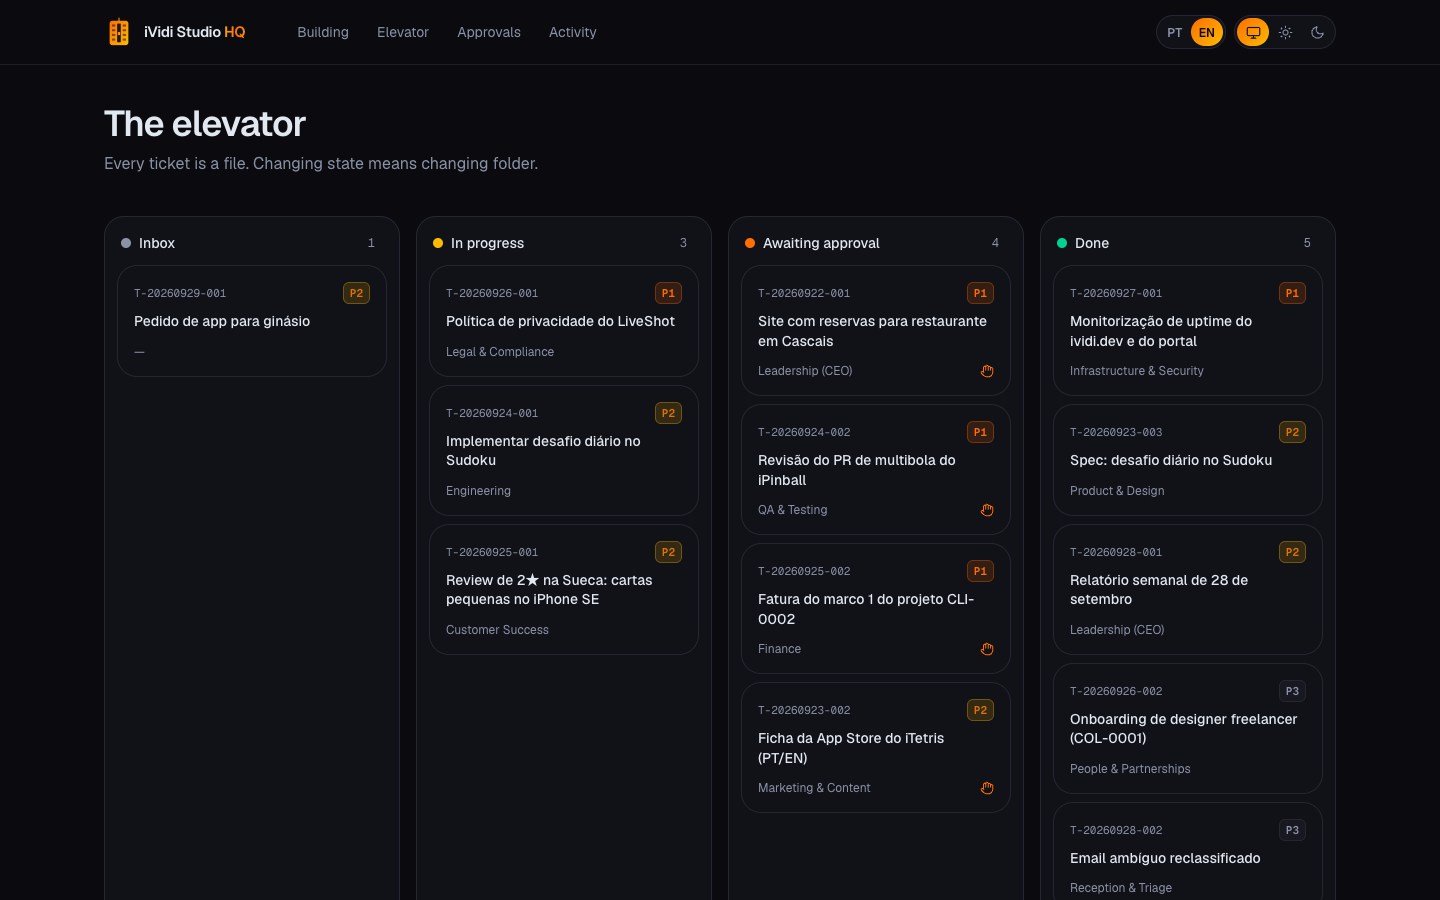
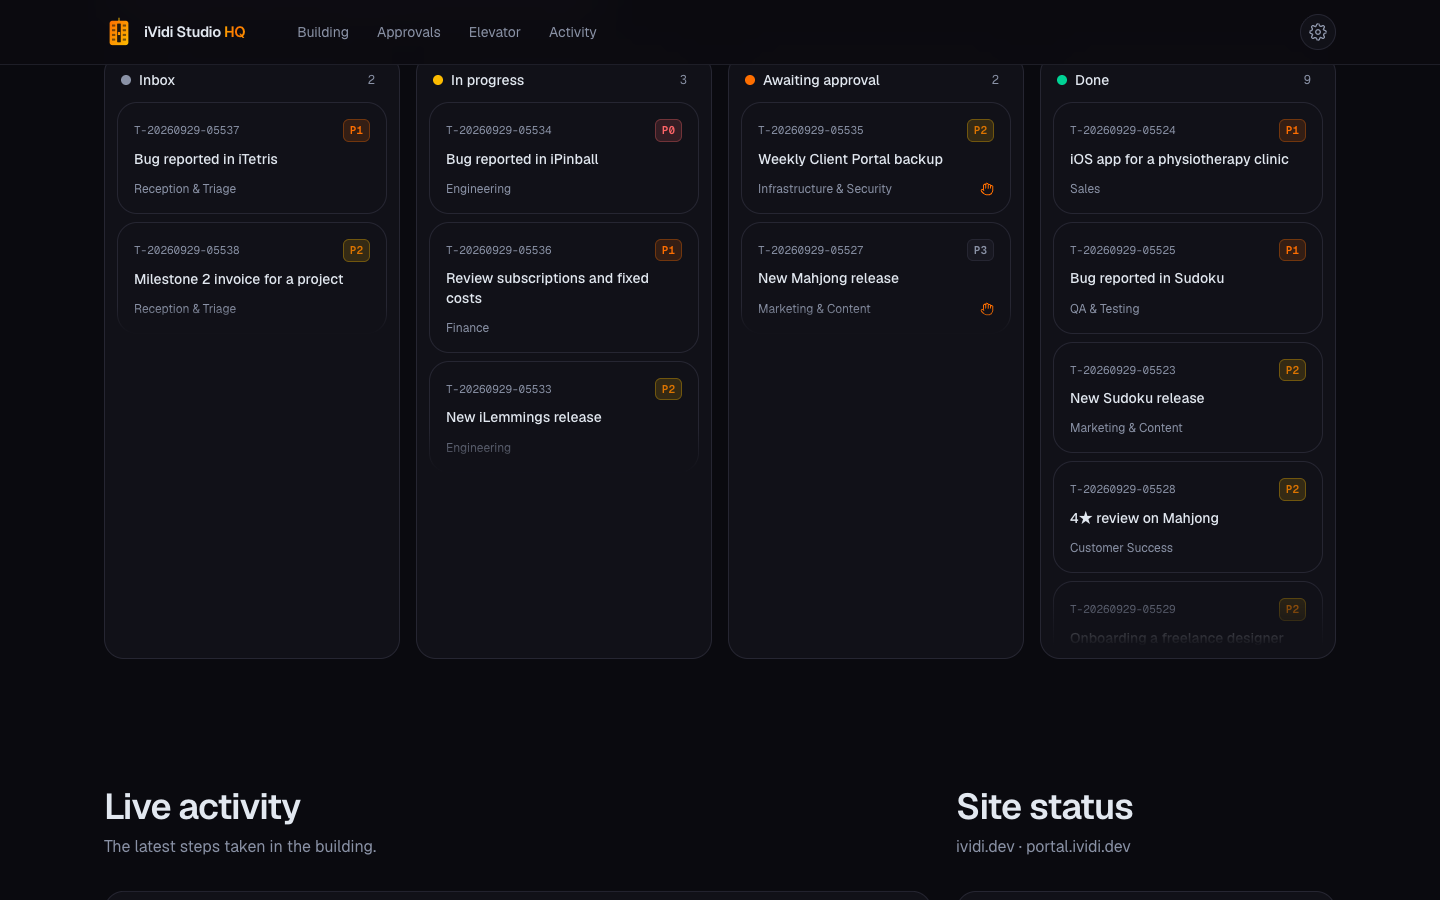
docs: README, planta e capturas da montra ao vivo

diff --git a/README.md b/README.md
@@ -1,30 +1,28 @@
 # iVidi Studio HQ 🏢
 
-> The whole iVidi Studio company run as a twelve-floor building: every floor a department with its own team of agents, every request a ticket riding the elevator, and a penthouse dashboard where only the decisions with real impact wait for a human.
+> A live showcase of iVidi Studio running as a twelve-floor building: every floor a department, every request a ticket riding the elevator, and every decision with real impact waiting for a human.
 
+[![Live demo](https://img.shields.io/badge/Live-demo-orange)](https://ividistudio.vercel.app)
 [![Report Bug](https://img.shields.io/badge/Report-Bug-red)](https://github.com/VidiPT89/iVidiStudio/issues)
 [![Request Feature](https://img.shields.io/badge/Request-Feature-blue)](https://github.com/VidiPT89/iVidiStudio/issues)
 
 <picture>
   <source media="(prefers-color-scheme: light)" srcset="docs/screenshots/hero-light.png">
-  <img alt="iVidi Studio HQ dashboard" src="docs/screenshots/hero-dark.png">
+  <img alt="iVidi Studio HQ live demo" src="docs/screenshots/hero-dark.png">
 </picture>
 
 ## ✨ Features
 
-- ✅ Twelve floors, from the Basement (Infrastructure & Security) to the Penthouse (Leadership), each with its mission, KPIs, step-by-step processes, templates and a decision log
-- ✅ The elevator: a ticket system made of plain Markdown files — changing state means moving the file between `entrada/`, `em-curso/`, `aguarda-aprovacao/` and `concluido/`, so every step is versioned in git
-- ✅ Twenty Claude Code agents — a floor manager for every floor, specialists for web, iOS, Android, proposals, store listings and UX, and a doorman who triages every new request
-- ✅ Eight slash commands as the elevator buttons: `/novo-pedido`, `/triagem`, `/piso`, `/ronda`, `/aprovacoes`, `/relatorio-semanal`, `/lancar-app` and `/novo-cliente`
-- ✅ Human gate: emails to clients, publishing, merging to `main`, production deploys, invoices, contracts, spending and deleting data never happen automatically
-- ✅ Floor boundaries enforced by a hook — an agent can only write to its own floor and to the elevator, and nobody reads `.env` files
-- ✅ Scheduled automation on GitHub Actions: hourly triage, a daily round at 08:00 Lisbon time, a Monday weekly report and a daily uptime check, all behind a single on/off switch
-- ✅ Client Portal webhook that turns a signed request into a ticket, validating the payload and stripping emails, phone numbers and tax IDs (GDPR)
-- ✅ Penthouse dashboard behind a login, with an interactive building whose elevator car rides to the selected floor, a live board of every ticket, the approval queue, recent activity and site status
-- ✅ Animated splash screen with developer credits once per browser session, then straight into the dashboard
-- ✅ Settings panel with a bilingual PT-PT / English switch, independent of your browser language
-- ✅ Dark, Light and System appearance, with the iVidi.dev orange, burnt yellow and black
-- ✅ Worked examples on every floor in `docs/exemplos/`, including a guided tour: a Cascais restaurant's request travelling from Reception to the Penthouse
+- ✅ Live simulation of the whole studio: new requests arrive every few seconds, get triaged at Reception, ride the elevator and pass through the right teams
+- ✅ Built from iVidi Studio's real products and services — iTetris, iPinball, iLemmings, Sudoku, Sueca, LiveShot, PhotographersPocketKnife, Next.js sites, Salesforce work — with fictional requests and clients, so no private details are ever shown
+- ✅ Deterministic by the clock: every visitor sees the same building at the same moment, with no server, no database and no personal data
+- ✅ Interactive building whose elevator car follows the work, lit windows for busy floors, and a panel with each floor's mission, team and KPIs
+- ✅ Human gate: proposals, store releases, deploys, invoices and contracts always stop and wait for approval
+- ✅ Live ticket board where cards glide between Inbox, In progress, Awaiting approval and Done, plus a live activity feed
+- ✅ Real uptime of ividi.dev and the Client Portal
+- ✅ The operating model behind it: twelve floors with processes and templates, twenty Claude Code agents, eight slash commands and a hook that keeps each agent on its own floor
+- ✅ Animated splash screen with developer credits once per browser session, then straight into the building
+- ✅ Settings panel with a bilingual PT-PT / English switch and Dark, Light and System appearance, in the iVidi.dev orange, burnt yellow and black
 
 <p align="center">
   <img alt="Splash screen" src="docs/screenshots/splash.png" width="49%">
@@ -35,12 +33,11 @@
 
 | Category | Technology |
 |----------|------------|
-| Dashboard | Next.js 16 (App Router), React 19, TypeScript |
+| Web | Next.js 16 (App Router), React 19, TypeScript |
 | Styling | Tailwind CSS 4 |
 | Animation | Motion |
-| Agents | Claude Code subagents, slash commands and hooks |
-| Automation | GitHub Actions |
-| Tickets & records | Markdown with YAML front matter |
+| Operating model | Claude Code subagents, slash commands and hooks |
+| Automation | GitHub Actions (uptime, CI) |
 | Testing | Vitest |
 | Hosting | Vercel |
 
@@ -48,15 +45,16 @@
 
 ```
 iVidiStudio/
+├── dashboard/           the live showcase (Next.js)
+│   └── src/lib/simulation.ts   the studio, generated from the clock
 ├── CLAUDE.md            building rules (PT-PT) every agent follows
 ├── docs/planta.md       floor plan with Mermaid diagrams (PT-PT)
 ├── docs/exemplos/       worked examples: one ticket per floor and their records
-├── elevador/            tickets: entrada/ · em-curso/ · aguarda-aprovacao/ · concluido/
+├── elevador/            ticket states: entrada/ · em-curso/ · aguarda-aprovacao/ · concluido/
 ├── pisos/               the 12 floors: README · processos/ · templates/ · registos/
 ├── empresa/             mission, brand, pricing and product catalogue
 ├── .claude/             agents/ · commands/ · hooks/ · settings.json
-├── .github/             scheduled workflows and the shared "run a floor" action
-└── dashboard/           the penthouse dashboard (Next.js)
+└── .github/             uptime check and CI
 ```
 
 ## 🚀 Quick Start
@@ -64,7 +62,6 @@ iVidiStudio/
 ### Prerequisites
 
 - Node.js 20+
-- [Claude Code](https://claude.com/claude-code) to run the agents and commands
 
 ### Installation
 
@@ -75,46 +72,21 @@ npm install
 npm run dev
 ```
 
-Open [http://localhost:3000](http://localhost:3000). The dashboard reads the building (`elevador/` and `pisos/`) when it starts and at every build. In development it is open; in production it asks for `DASHBOARD_USER` / `DASHBOARD_PASSWORD` (see [`dashboard/.env.example`](dashboard/.env.example)).
+Open [http://localhost:3000](http://localhost:3000). No environment variables are needed.
 
 ## 📖 Usage
 
-1. Open Claude Code at the repository root and drop a request in: `/novo-pedido A restaurant in Cascais wants a website with bookings`
-2. Run `/triagem` — the doorman classifies it and sends it to the right floor
-3. Run `/piso 1` (or `/ronda` for every floor) to let the floor managers do the work
-4. Check `/aprovacoes` every day: approve with `/aprovacoes aprovar <id>` or send it back with `/aprovacoes rejeitar <id> "comment"`
-5. Follow everything on the dashboard — pick a floor to see its team, KPIs and work, open any ticket to read its history
-6. Open **Settings** (the gear in the header) to switch language (PT / EN) and appearance (System / Light / Dark)
-
-### Turning on the automation
-
-The workflows stay off until you switch them on, and they run on your Claude subscription, with no paid API key:
-
-1. Run `claude setup-token` and add the token as the repository secret `CLAUDE_CODE_OAUTH_TOKEN`
-2. Add the repository variable `IVIDI_AUTOMACAO` with the value `ligada`
-
-The daily uptime check and CI need neither. As a private repository the Actions budget is 2,000 free minutes a month, so triage runs four times a day plus right after every new portal request.
+1. Watch the splash screen, then the building starts working on its own
+2. Follow the elevator, or pick a floor to see its team, KPIs and what it has in hand — **Follow the elevator** takes you back to live
+3. Open any ticket to watch its journey through the building update live
+4. Keep an eye on **Human gate**: nothing with real impact happens until it has been approved
+5. Open **Settings** (the gear in the header) to switch language (PT / EN) and appearance (System / Light / Dark)
 
 ## 🔌 API Endpoints
 
 | Method | Endpoint | Description |
 |--------|----------|-------------|
-| `GET` | `/api/status` | Uptime and response time of ividi.dev and portal.ividi.dev (cached for 5 minutes, behind the dashboard login) |
-| `POST` | `/api/portal` | Client Portal webhook — creates a ticket in `elevador/entrada/`. Body signed with HMAC-SHA256 in `x-ividi-signature: sha256=<hex>`. The only route outside the login |
-
-`POST /api/portal` body:
-
-```json
-{
-  "clientRef": "CLI-0007",
-  "type": "pedido-cliente",
-  "title": "New website",
-  "summary": "What the client asked for",
-  "priority": "P2"
-}
-```
-
-Configure `PORTAL_WEBHOOK_SECRET`, `GITHUB_TOKEN` (fine-grained, contents: write on this repository) and `GITHUB_REPO` — see [`dashboard/.env.example`](dashboard/.env.example).
+| `GET` | `/api/status` | Uptime and response time of ividi.dev and portal.ividi.dev (cached for 5 minutes) |
 
 ## 🧪 Testing
 
@@ -126,7 +98,7 @@ npm test
 npm run build
 ```
 
-The tests cover the ticket and record parser, the webhook validation and GDPR redaction, ticket numbering, the hook that keeps every agent on its own floor and away from secrets, and that both languages define and use the same strings for every floor.
+The tests cover the simulation (same building for every visitor, consistent counters, tickets walking the floors in order, the human gate, both languages and Portuguese grammar), the hook that keeps every agent on its own floor and away from secrets, and that both languages define and use the same strings for every floor.
 
 ## 📄 License
 

diff --git a/docs/planta.md b/docs/planta.md
@@ -75,8 +75,8 @@ ividi-hq/
   pisos/<piso>/        README.md · processos/ · templates/ · registos/
   empresa/             missão, visão, valores, marca, preços, catálogo
   .claude/             agents/ (20) · commands/ (8) · hooks/ · settings.json
-  .github/             workflows/ (triagem, ronda, relatório, uptime, CI) · actions/piso
-  dashboard/           Painel da Cobertura (Next.js)
+  .github/             workflows/ (uptime, CI)
+  dashboard/           montra ao vivo (Next.js)
 ```
 
 ## Estado da construção
@@ -84,19 +84,20 @@ ividi-hq/
 - [x] Fase 1 — Fundações
 - [x] Fase 2 — A equipa (20 agentes em `.claude/agents/`)
 - [x] Fase 3 — Comandos (8 botões do elevador em `.claude/commands/`)
-- [x] Fase 4 — Automação 24/7 (workflows, hooks, webhook do portal) — desligada até `IVIDI_AUTOMACAO=ligada`
-- [x] Fase 5 — Painel da Cobertura (`dashboard/`)
+- [x] Fase 4 — Hooks de fronteira entre pisos e monitorização de uptime
+- [x] Fase 5 — Painel da Cobertura como montra ao vivo (`dashboard/`)
 
-## Ligar as automações
+## A montra ao vivo
 
-1. No terminal: `claude setup-token` → copia o token.
-2. GitHub → Settings → Secrets and variables → Actions:
-   - Secret `CLAUDE_CODE_OAUTH_TOKEN` = o token (usa a subscrição, sem API paga).
-   - Variable `IVIDI_AUTOMACAO` = `ligada` (interruptor geral; qualquer outro valor desliga tudo).
-3. O uptime diário e o CI não precisam de nada disto.
+O painel em [`dashboard/`](../dashboard/) é uma **demonstração pública** (https://ividistudio.vercel.app) para o ividi.dev:
+mostra a empresa a funcionar sozinha, com os produtos e serviços reais da iVidi Studio, mas com pedidos e clientes fictícios.
+A simulação é uma função da hora (`dashboard/src/lib/simulation.ts`): todos os visitantes veem o mesmo edifício ao mesmo tempo,
+sem servidor, sem base de dados e sem dados pessoais. As ações com impacto real param sempre no portão humano.
+
+O trabalho real da iVidi Studio é feito pelo Vidi; os agentes e os comandos continuam disponíveis para usar à mão no Claude Code.
 
 ## Visita guiada
 
 O ticket de exemplo [`T-20260922-001`](exemplos/elevador/aguarda-aprovacao/T-20260922-001-site-restaurante-cascais.md) é um pedido de um restaurante em Cascais
-que entrou pelo Client Portal e passou por Receção → Vendas → Jurídico → Finanças → Direção. Os registos de cada piso estão ligados
-na secção "Trabalho feito" do ticket (estão em `docs/exemplos/pisos/`). Os exemplos saíram do elevador para a operação real começar limpa.
+que passou por Receção → Vendas → Jurídico → Finanças → Direção. Os registos de cada piso estão ligados
+na secção "Trabalho feito" do ticket (estão em `docs/exemplos/pisos/`).
